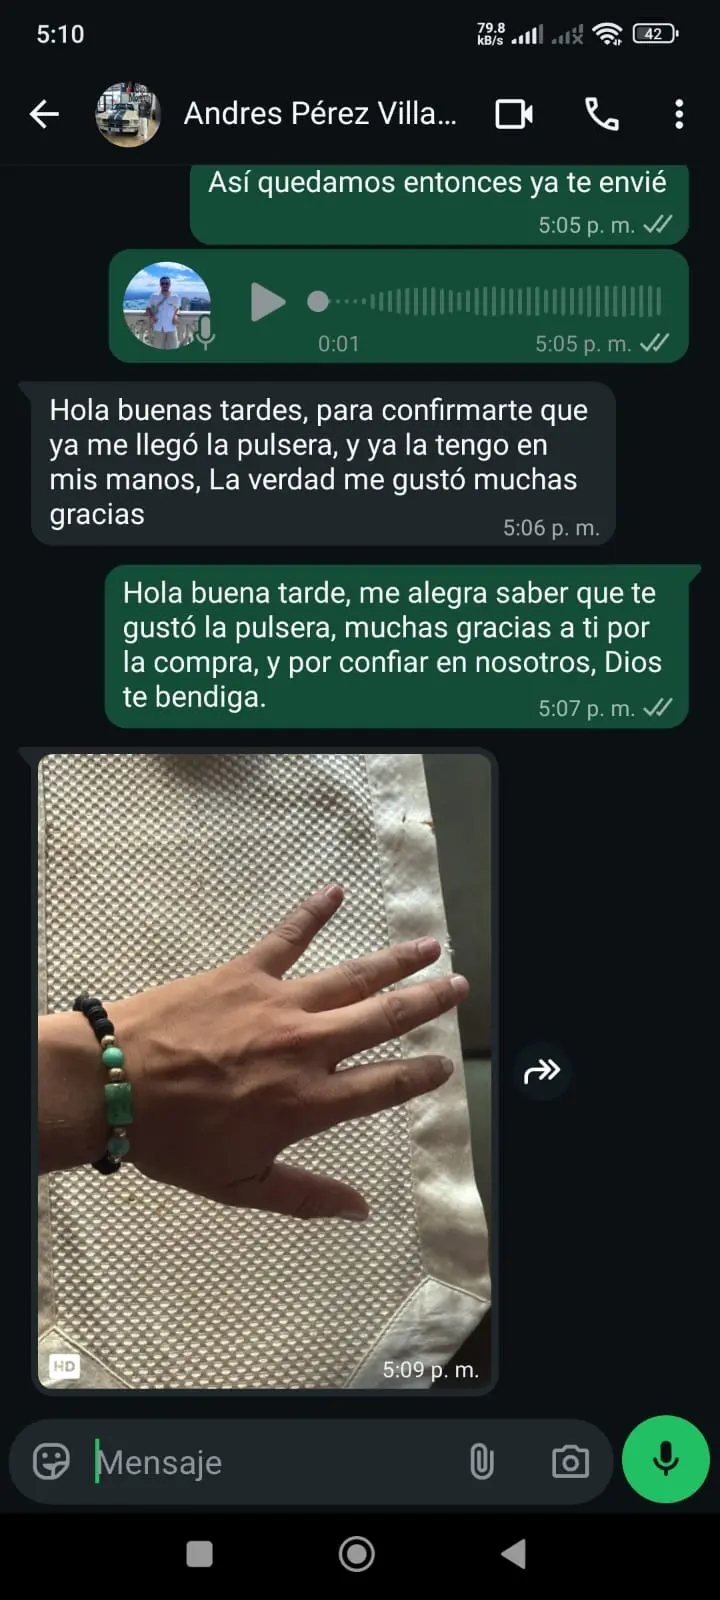
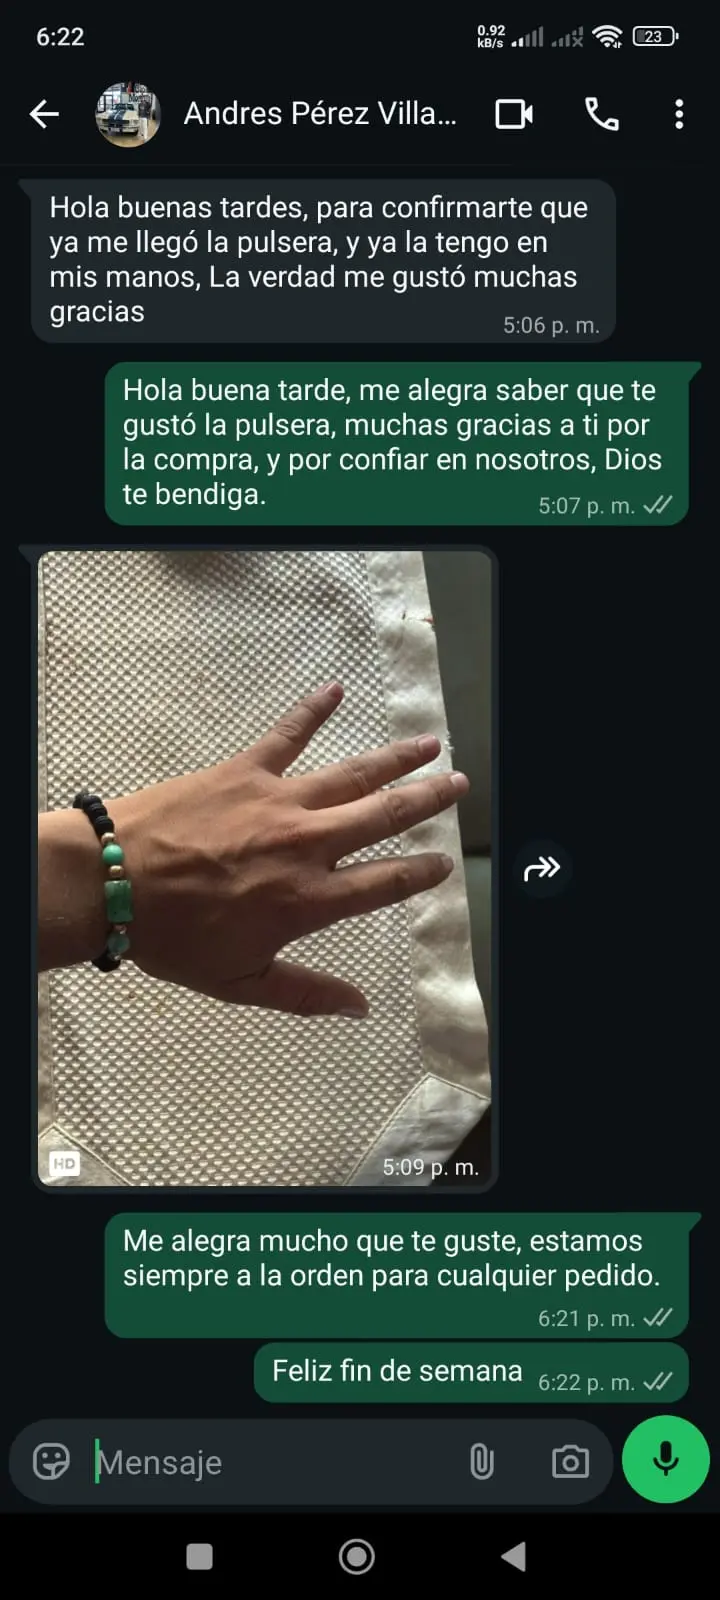
feat: add CustomerMasonryGrid and WhatsAppTestimonials components to showcase client success stories

diff --git a/src/features/casos-exito/components/WhatsAppTestimonials.tsx b/src/features/casos-exito/components/WhatsAppTestimonials.tsx
@@ -3,11 +3,11 @@ import { ChevronLeft, ChevronRight } from "lucide-react";
 
 const screenshots = [
   { src: "/casos-exito/whatsapp1.webp", name: "Alejandro", location: "Medellín" },
-  { src: "/casos-exito/whatsapp2.webp", name: "Nombre del Cliente", location: "Ciudad, País" },
-  { src: "/casos-exito/whatsapp3.webp", name: "Nombre del Cliente", location: "Ciudad, País" },
-  { src: "/casos-exito/whatsapp4.webp", name: "Nombre del Cliente", location: "Ciudad, País" },
-  { src: "/casos-exito/whatsapp5.webp", name: "Nombre del Cliente", location: "Ciudad, País" },
-  { src: "/casos-exito/whatsapp6.webp", name: "Nombre del Cliente", location: "Ciudad, País" },
+  { src: "/casos-exito/whatsapp2.webp", name: "Andres Perez", location: "Villavicencio" },
+  { src: "/casos-exito/whatsapp3.webp", name: "Jairo Mesa", location: "Bucaramanga" },
+  { src: "/casos-exito/whatsapp4.webp", name: "Laura Martinez", location: "Madrid" },
+  { src: "/casos-exito/whatsapp5.webp", name: "Yenny", location: "Armenia" },
+  { src: "/casos-exito/whatsapp6.webp", name: "Sofia", location: "Madrid" },
 ];
 
 export default function WhatsAppTestimonials() {

diff --git a/src/features/casos-exito/components/CustomerMasonryGrid.tsx b/src/features/casos-exito/components/CustomerMasonryGrid.tsx
@@ -3,7 +3,7 @@ import React from "react";
 const customers = [
   { src: "/casos-exito/cliente1.webp", name: "Juan Carlos", location: "Bucaramanga, Pulsera de oro" },
   { src: "/casos-exito/cliente2.webp", name: "Nombre del Cliente", location: "Ciudad, País" },
-  { src: "/casos-exito/cliente3.webp", name: "Nombre del Cliente", location: "Ciudad, País" },
+  { src: "/casos-exito/cliente3.webp", name: "Mariana Jaramillo", location: "Cucuta, Manilla en oro laminado y esmeraldas" },
   { src: "/casos-exito/cliente4.webp", name: "Nombre del Cliente", location: "Ciudad, País" },
   { src: "/casos-exito/cliente5.webp", name: "Alberto", location: "Bogota, Pulsera de plata y esmeraldas" },
   { src: "/casos-exito/cliente6.webp", name: "Nombre del Cliente", location: "Ciudad, País" },
